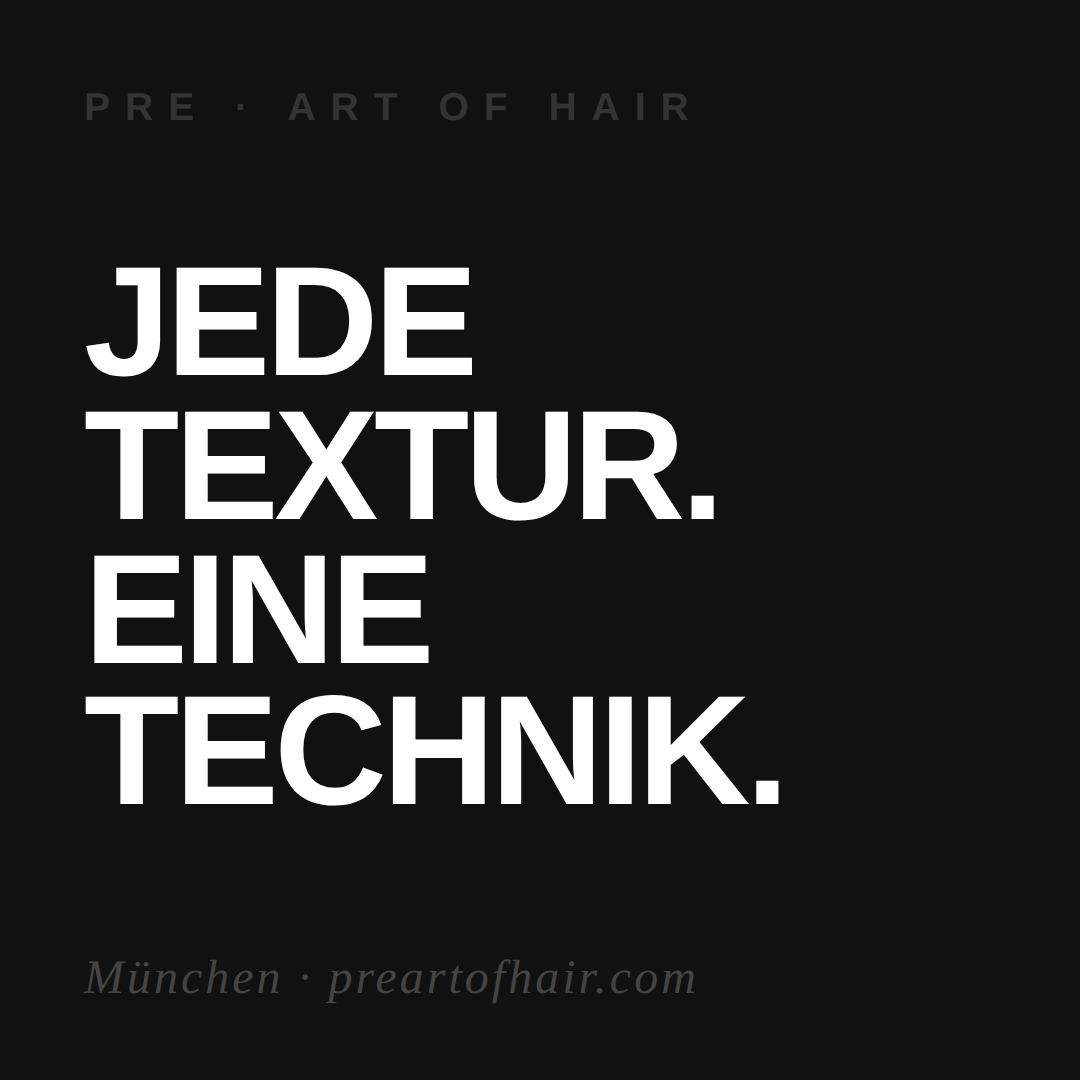
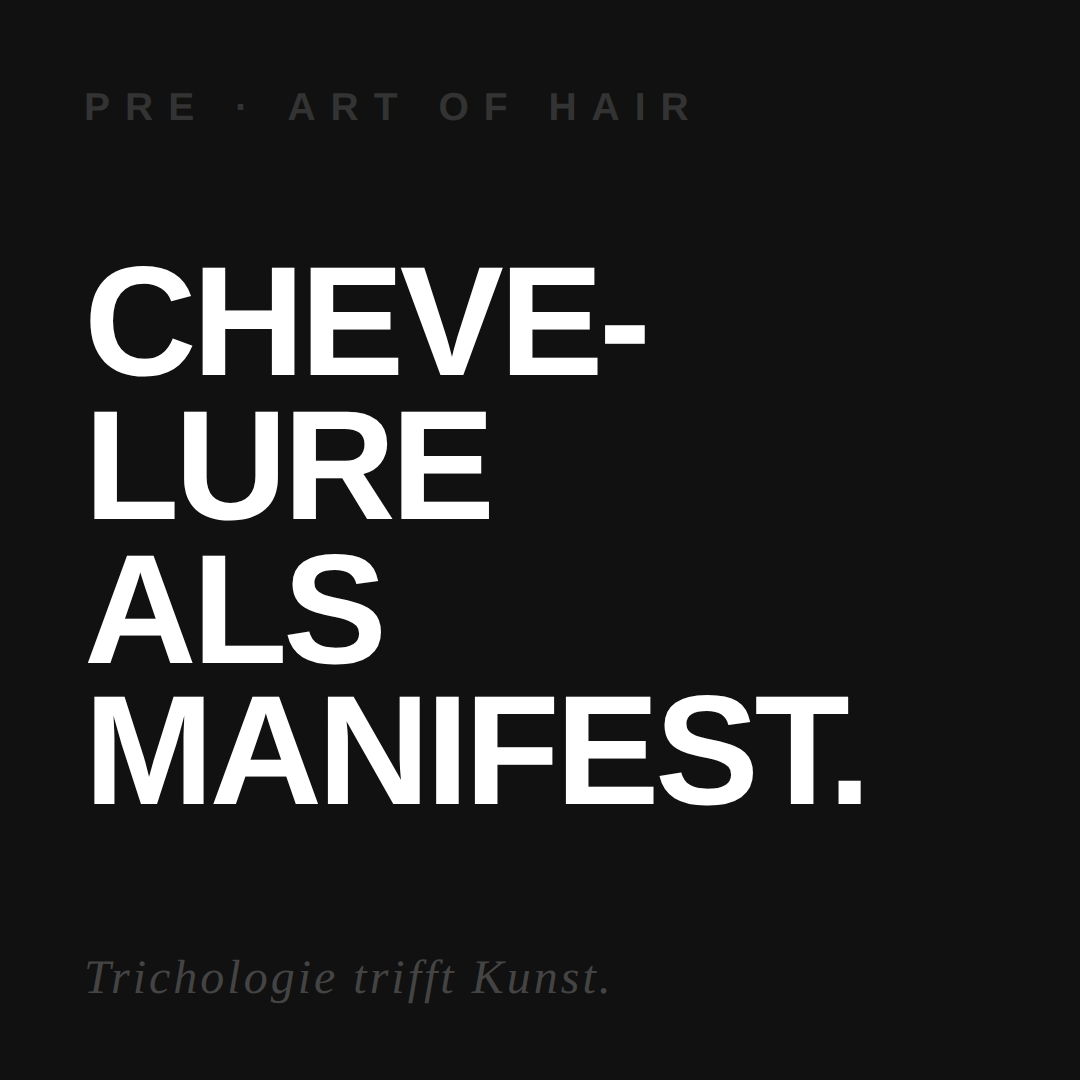
Update feed text cards with poetic/artistic language
Chevelure als Manifest / Topographie des Schnitts /
Morphologie ohne Hierarchie — concept-art vocabulary over direct marketing.

https://claude.ai/code/session_01BaC8m9wAmbtKccXQSCmnYc

Changed region(s): [[0.0611, 0.2444, 0.6722, 0.6111], [0.0611, 0.6417, 0.7944, 0.7639], [0.0611, 0.8861, 0.6417, 0.9472]]

diff --git a/feed-posts.html b/feed-posts.html
@@ -180,8 +180,8 @@
       <div class="post-num">02</div>
       <div class="post p2">
         <div class="pre">PRE · Art of Hair</div>
-        <div class="headline">JEDE<br>TEXTUR.<br>EINE<br>TECHNIK.</div>
-        <div class="sub">München · preartofhair.com</div>
+        <div class="headline">CHEVE-<br>LURE<br>ALS<br>MANIFEST.</div>
+        <div class="sub">Trichologie trifft Kunst.</div>
       </div>
     </div>
 
@@ -203,8 +203,8 @@
       <div class="post-num">04</div>
       <div class="post p4">
         <div class="pre">PRE · Art of Hair</div>
-        <div class="headline">PRÄ-<br>ZISION<br>IST<br>ALLES.</div>
-        <div class="sub">Kein Kompromiss.</div>
+        <div class="headline">TOPO-<br>GRAPHIE<br>DES<br>SCHNITTS.</div>
+        <div class="sub">Kontur ohne Kompromiss.</div>
       </div>
     </div>
 
@@ -224,9 +224,9 @@
       <div class="post-num">06</div>
       <div class="post p6">
         <div class="pre">PRE · Art of Hair</div>
-        <div class="headline">AFRO.<br>ASIATISCH.<br>FEIN.<br>ALLES.</div>
+        <div class="headline">MORPHO-<br>LOGIE<br>OHNE<br>HIER-<br>ARCHIE.</div>
         <div class="divider"></div>
-        <div class="sub">Jede Textur. Jede Technik.</div>
+        <div class="sub">Jede Struktur. Jede Herkunft.</div>
       </div>
     </div>
 
